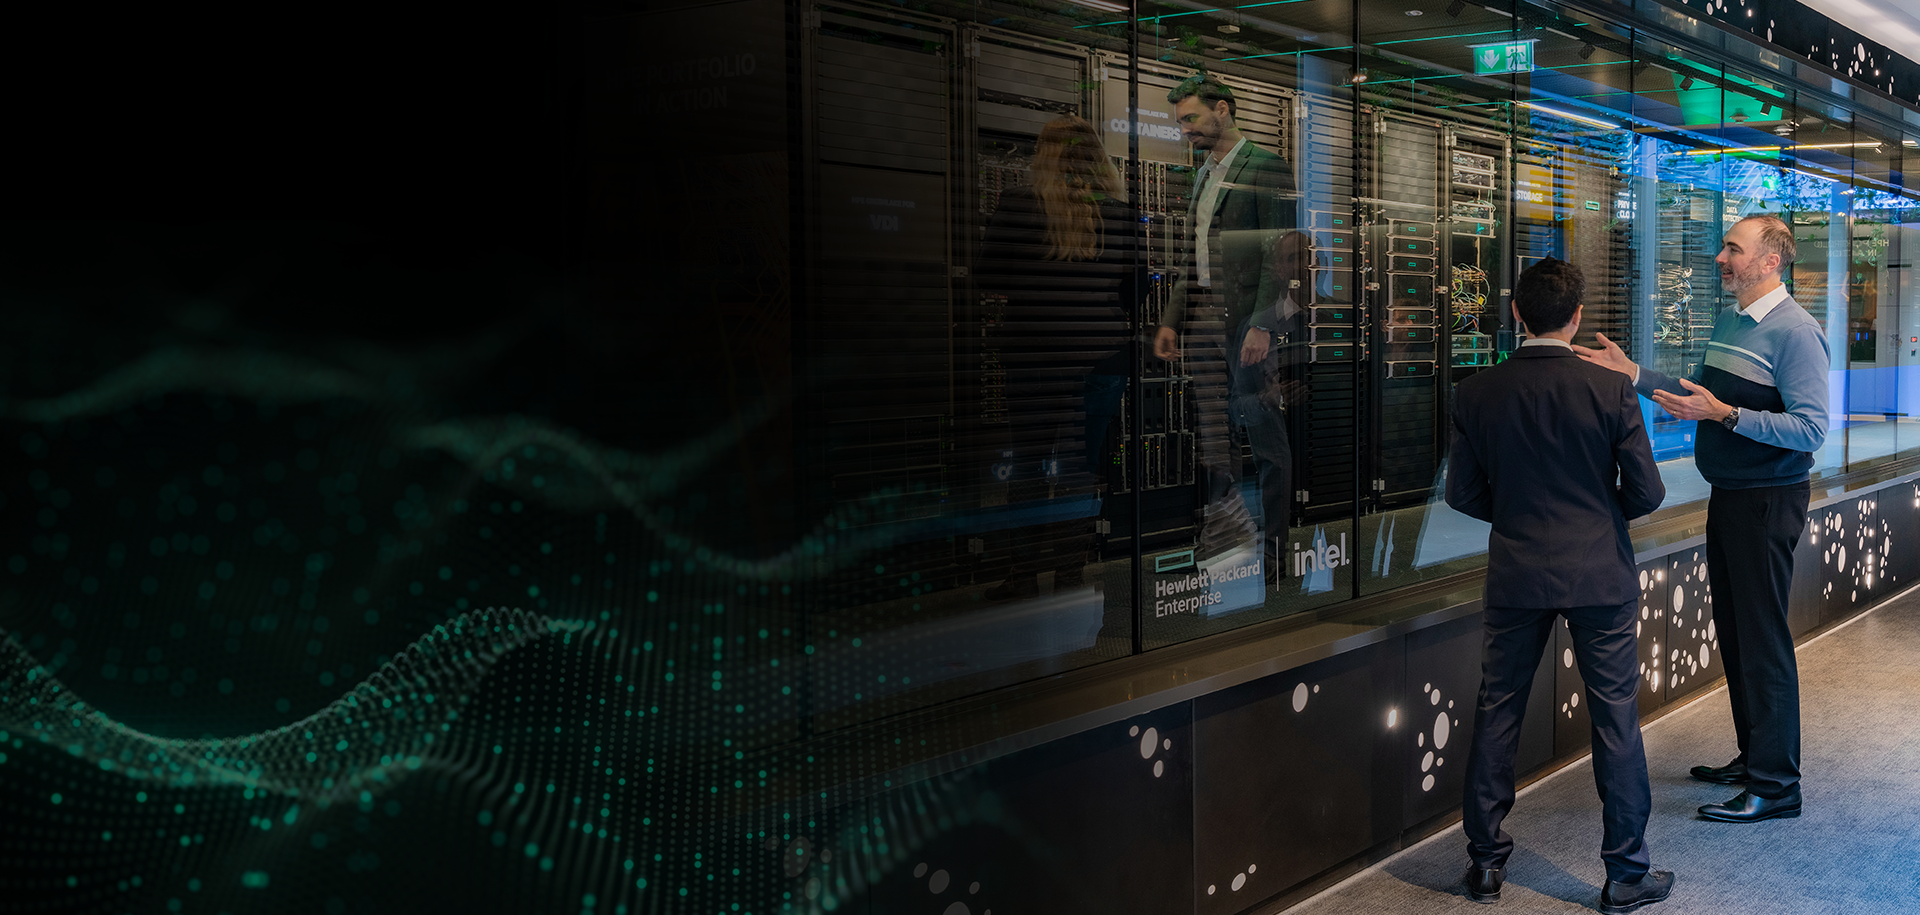
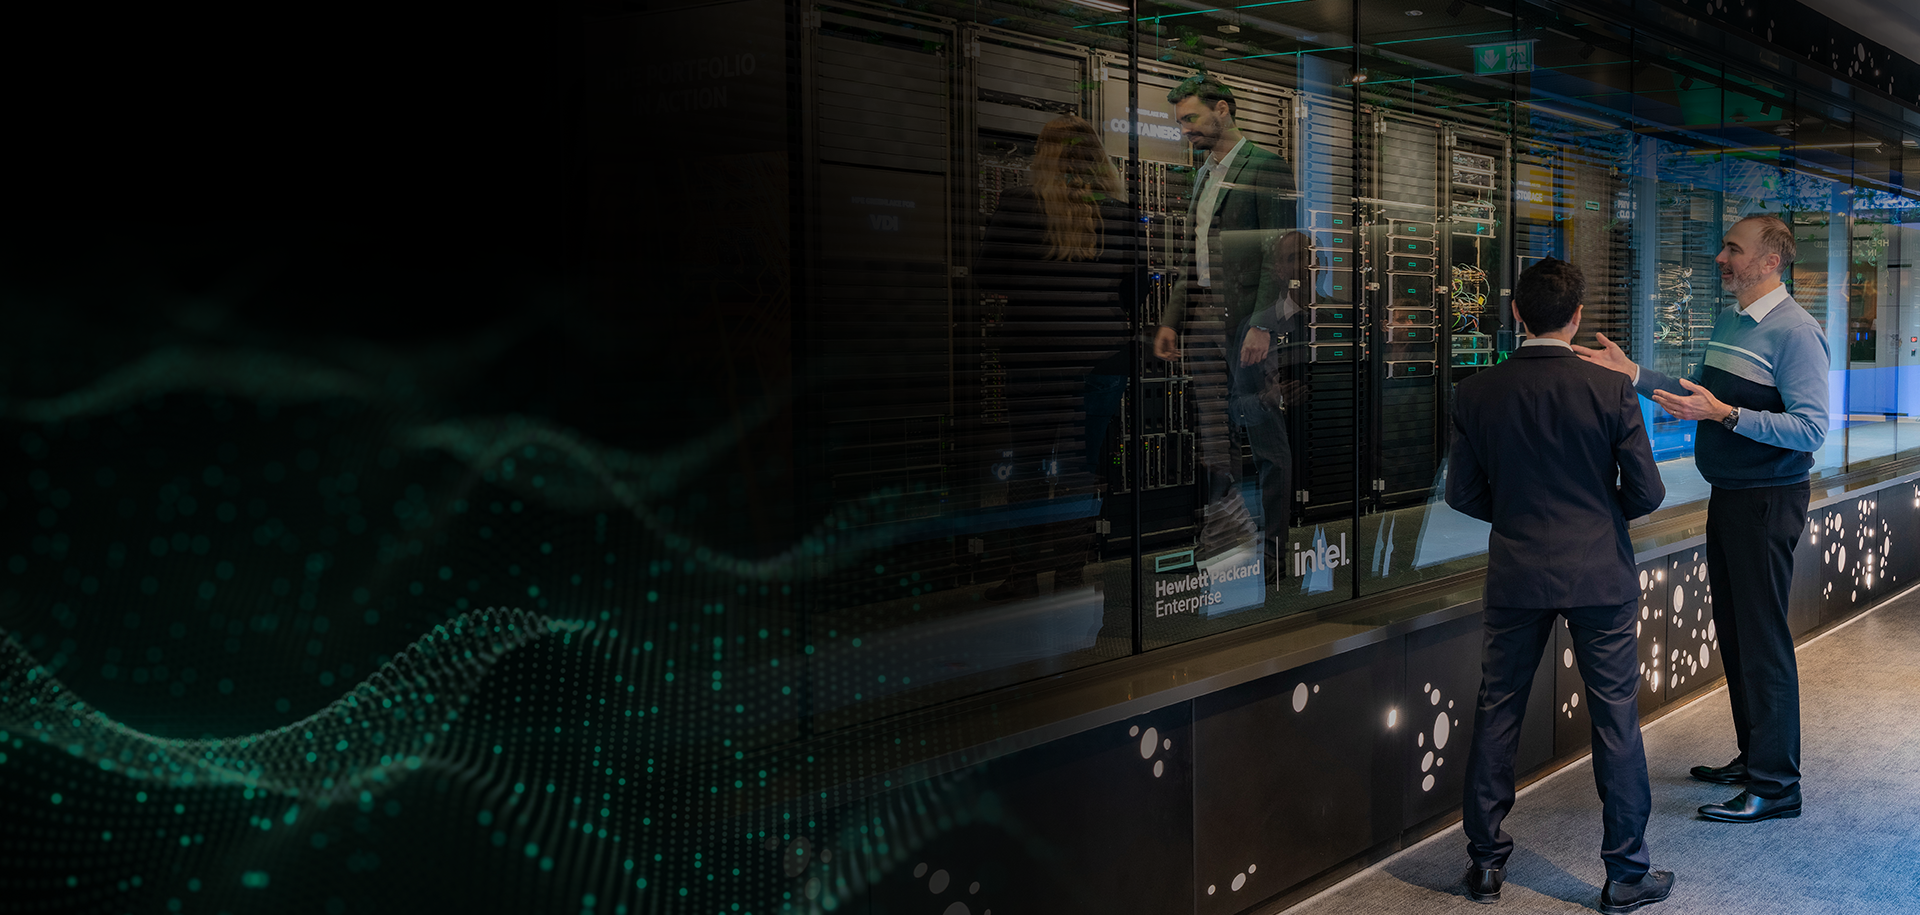
up

Changed region(s): [[0.7188, 0.0, 1.0, 0.3672]]

diff --git a/style/style.css b/style/style.css
@@ -220,8 +220,11 @@ body {
   position: absolute;
   left: 0;
   top: 0;
-  height: 100%;
-  width: 100%;
-  background: #9dacf01a;
+  height: 140%;
+  width: 140%;
+  -webkit-transform: translate(-15px, -5px);
+          transform: translate(-15px, -5px);
+  background: #00000029;
+  z-index: -1;
 }
 /*# sourceMappingURL=style.css.map */

diff --git a/style/style.scss b/style/style.scss
@@ -172,7 +172,9 @@ body {
   position: absolute;
   left: 0;
   top: 0;
-  height: 100%;
-  width: 100%;
-  background: #9dacf01a;
+  height: 140%;
+  width: 140%;
+  transform: translate(-15px, -5px);
+  background: #00000029;
+  z-index: -1;
 }
